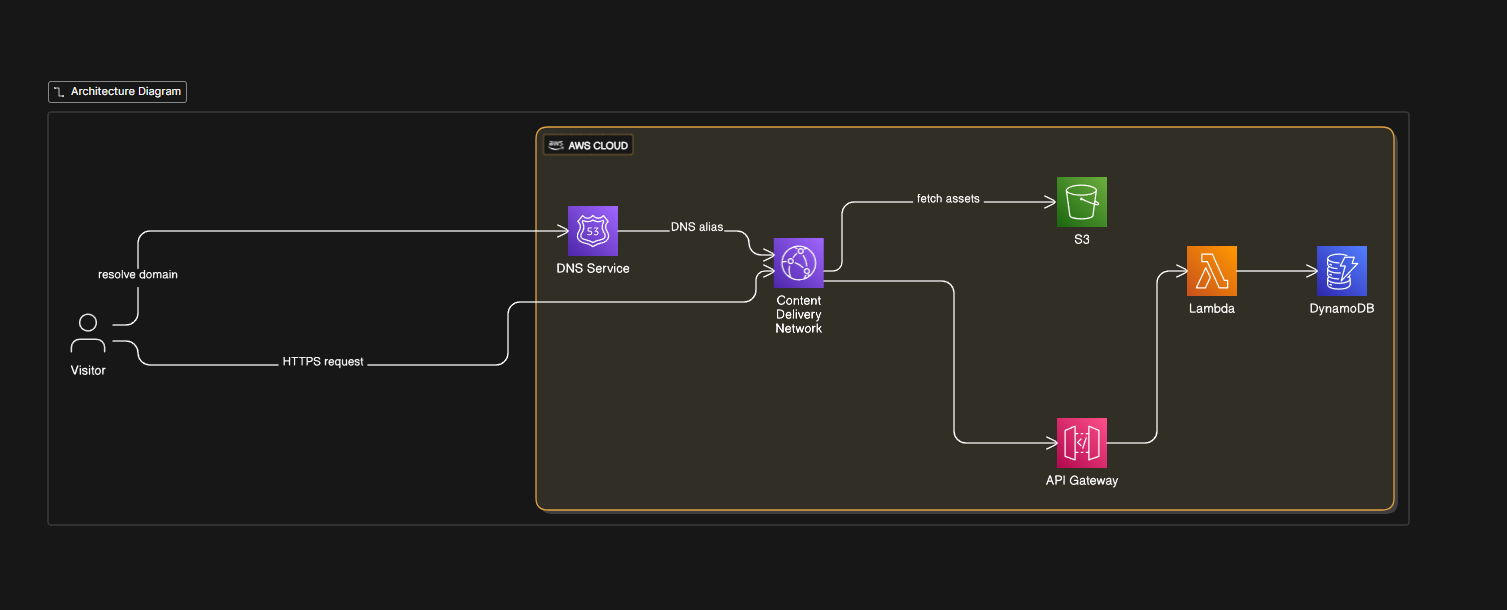
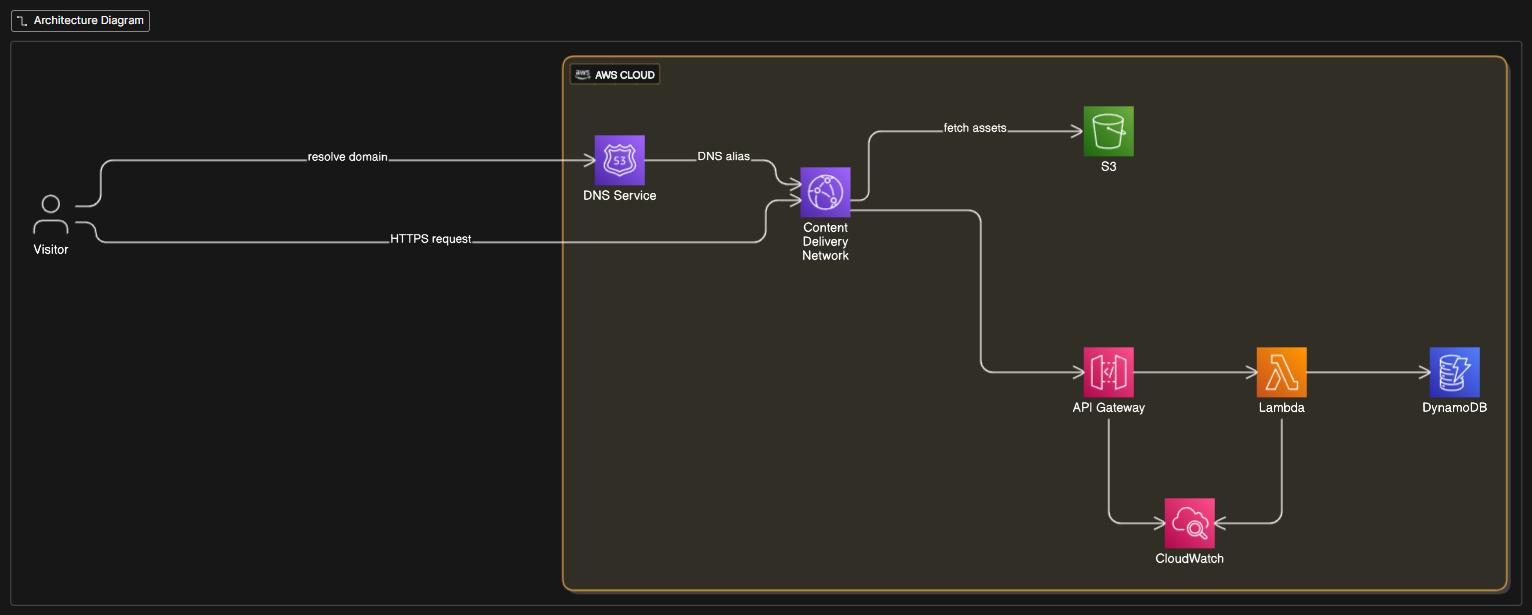
Add Cloudwatch to README and change system

diff --git a/README.md b/README.md
@@ -6,7 +6,7 @@ This repository contains the source code for my personal portfolio website.
 
 This is a modern, single-page application designed to showcase my projects, professional experience, and interests. It features a clean user interface with 3D animations and scroll-triggered events to create an engaging user experience.
 
-![Alt text](website/src/assets/infra.png "Optional title text")
+![Alt text](website/src/assets/infra_project.png "Optional title text")
 
 ### Tech Stack
 
@@ -15,28 +15,24 @@ This is a modern, single-page application designed to showcase my projects, prof
 *   **Styling:** [Tailwind CSS](https://tailwindcss.com/)
 *   **Animations:** [Framer Motion](https://www.framer.com/motion/)
 
+## Infrastructure
+
+The `infra` directory contains the Terraform configurations for deploying the backend infrastructure. This includes:
+
+- **AWS Lambda:** Serverless functions for backend logic.
+- **API Gateway:** Exposing Lambda functions as RESTful APIs.
+- **S3:** Static website hosting and storage.
+- **CloudFront:** Content delivery network for global distribution and caching.
+- **DynamoDB:** NoSQL database for persistent storage.
+- **Route 53:** DNS management for custom domain names.
+- **CloudWatch:** Monitoring and logging of the deployed infrastructure.
+
+
 ## Usage
 
 For detailed instructions on how to set up and run this project locally, please see the [USAGE.md](USAGE.md) file.
 
-## Deployment
+The project uses GitHub Actions for continuous integration and deployment. The workflows are defined in the `.github/workflows` directories:
 
-This project has two potential deployment configurations:
-
-### 1. GitHub Pages (Currently Active)
-
-The portfolio is automatically built and deployed to GitHub Pages upon every push to the `main` branch. The workflow is defined in `.github/workflows/deploy.yml` and handles everything from dependency installation to final deployment.
-
-### 2. AWS Infrastructure (Available)
-
-The `infra/` directory contains a complete Infrastructure as Code (IaC) setup using [Terraform](https://www.terraform.io/). This configuration will provision a production-grade environment on AWS, including:
-
-*   **Amazon S3:** To host the static website files.
-*   **Amazon CloudFront:** To act as a global CDN for low-latency delivery.
-*   **Amazon Route 53 & ACM:** To manage a custom domain and SSL certificate.
-*   **Amazon DynamoDB**: A NoSQL database service used to store and manage visit counters for the portfolio. The table `xayportfolio_visit_counters` stores `pk` (primary key) and `count` attributes.
-*   **AWS Lambda**: A serverless compute service that executes backend logic. The `hello` Lambda function handles requests for `/hello` and `/counter` endpoints. It interacts with DynamoDB to retrieve and increment visit counts.
-*   **Amazon API Gateway**: Creates a RESTful API that acts as the front door for applications to access data, business logic, or functionality from backend services. This project uses an HTTP API (`hello-http-api`) with the following routes:
-    *   `GET /hello`: A basic endpoint returning a "Hello from Lambda!" message.
-    *   `GET /counter`: Retrieves the current visit count.
-    *   `POST /counter`: Increments the visit count.
+- `.github/workflows/deploy.yml` (in `infra`): Deploys the backend infrastructure using Terraform.
+- `.github/workflows/deploy.yml` (in `website`): Builds and deploys the frontend website to S3 and CloudFront.
